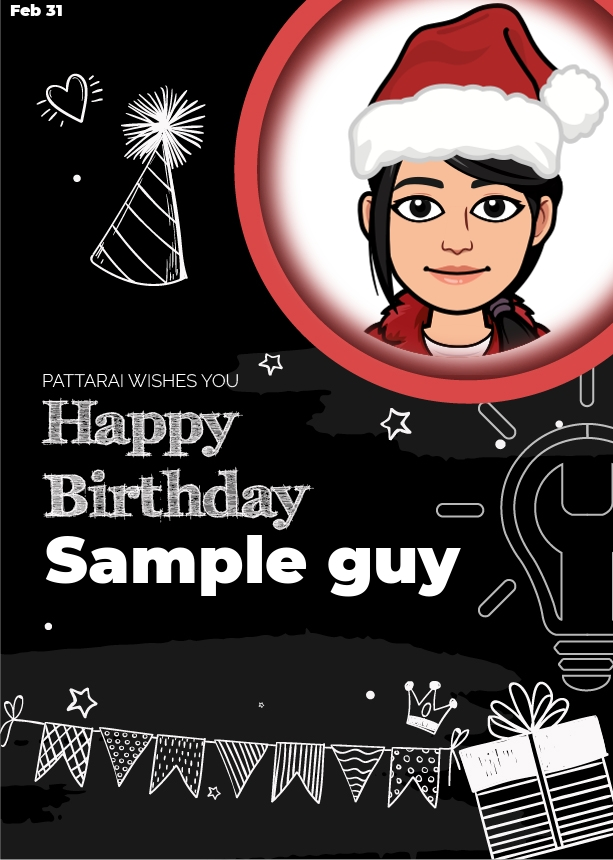
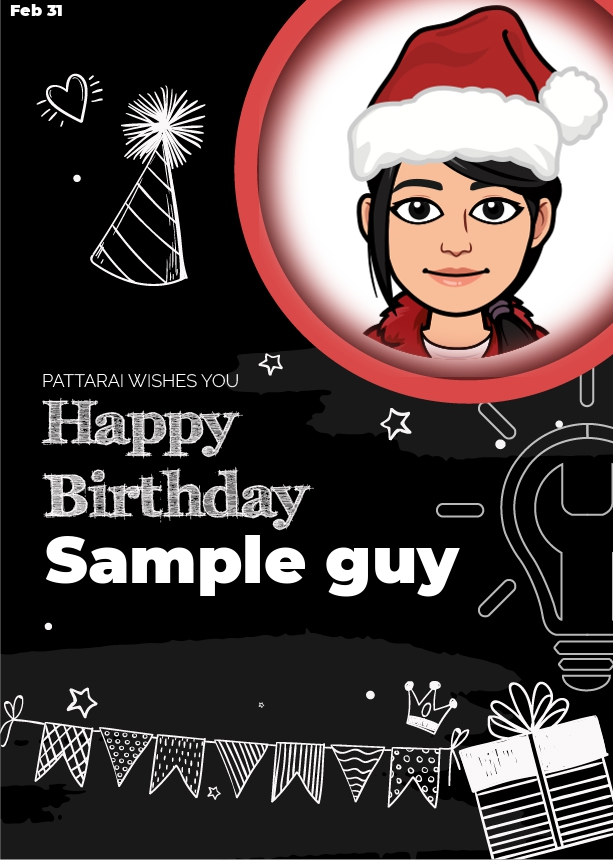
Samples checked

diff --git a/main.py b/main.py
@@ -12,10 +12,10 @@ mask_im = Image.new("L", im2.size, 0)
 draw = ImageDraw.Draw(mask_im)
 draw.ellipse((15, 15, 396, 383), fill=255)
 
-mask_im_blur = mask_im.filter(ImageFilter.GaussianBlur(10))
+mask_im_blur = mask_im.filter(ImageFilter.GaussianBlur(13))
 
 back_im = im1.copy()
-back_im.paste(im2, (260, -25), mask_im_blur)
+back_im.paste(im2, (259, -23), mask_im_blur)
 
 draw = ImageDraw.Draw(back_im)
 
